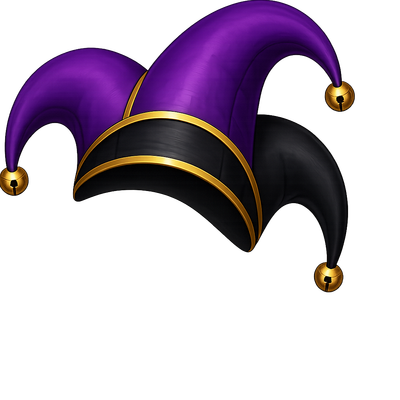
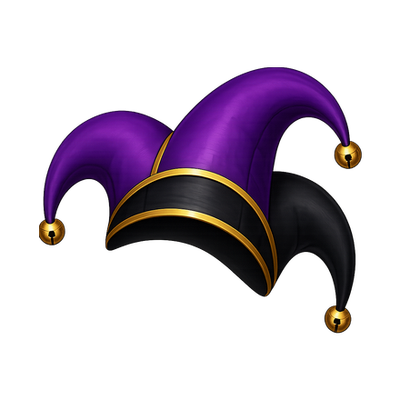
Re-center hat watermark + hold last HLJ trick (#116)
* Lobby: gear icon in corner, scrollable seats, deal button always visible

- Settings button replaced with a small ⚙ gear icon pinned to the top-right
  corner of the lobby card (no text label)
- Seat list wrapped in .lby-seats-scroll with max-height:36dvh and overflow-y:auto
  so it scrolls independently without pushing the deal button off screen
- Deal button moved into .lby-cta-row at the bottom of the card, always visible

https://claude.ai/code/session_01SQRD1LLEgWN6Wy7aNowbiv

* Redesign home/lobby/play screens for consistent warm parlor theme

Home screen: game picker cards revert to parchment face-card style
Lobby: seats shown on felt at compass positions; deal button + controls pinned below felt; gear stays top-right
Play screen: warm wood frame (felt-frame) wraps the green felt; wood background behind table

https://claude.ai/code/session_01SQRD1LLEgWN6Wy7aNowbiv

* Hearts: red watermark on broken hearts, red card backs on pods; Lobby: poker chip player count buttons

https://claude.ai/code/session_01SQRD1LLEgWN6Wy7aNowbiv

* Multiple fixes: Hearts pass clears immediately; card count on pod back; joker blocked as 5th set card; player name moves to top of pod stack

https://claude.ai/code/session_01SQRD1LLEgWN6Wy7aNowbiv

* Rummy: set melds fan like runs with odd-color on top, poker chip score display, slower bot turns; bump rummy botStepMs to 900ms

https://claude.ai/code/session_01SQRD1LLEgWN6Wy7aNowbiv
[…]

diff --git a/public/app.js b/public/app.js
@@ -331,7 +331,7 @@ function onFrame(e) {
     // HLJ: when the trick just resolved (currentTrick went from full → empty),
     // hold the completed trick display for one "extra player" turn worth of time.
     if (S.party === "high-low-jack" && prev?.currentTrick?.length === prev?.seats?.length
-        && msg.view?.currentTrick?.length === 0 && msg.view?.phase === "playing") {
+        && msg.view?.currentTrick?.length === 0 && prev?.phase === "playing") {
       if (S.hljTrickHoldTimer) clearTimeout(S.hljTrickHoldTimer);
       const n = prev.seats.length;
       const winSeat = (() => {
